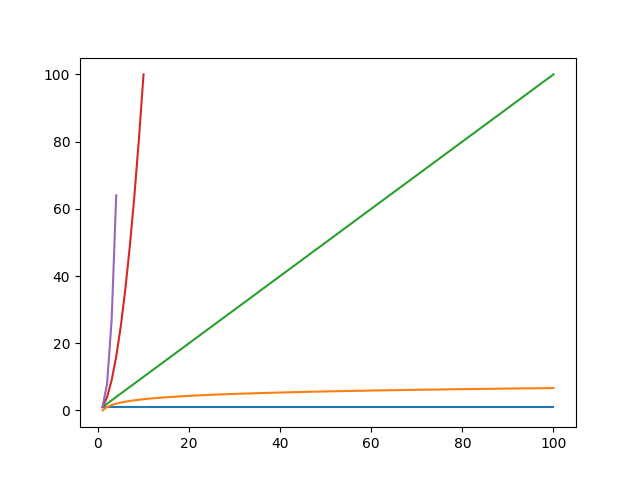
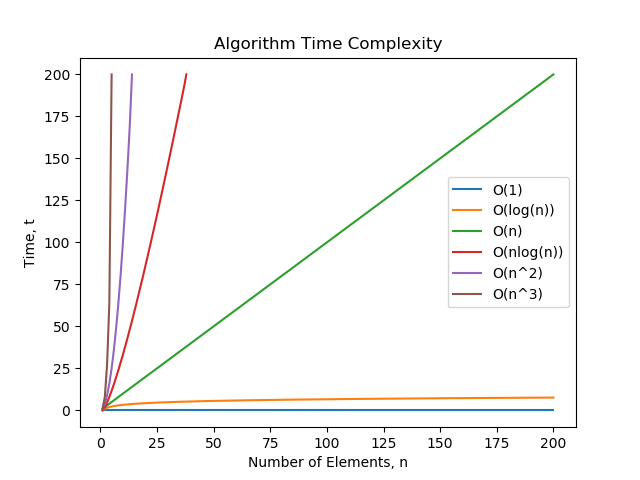
Updated the algorithmic complexity page.

diff --git a/layouts/shortcodes/img.html b/layouts/shortcodes/img.html
@@ -3,7 +3,8 @@
 {{- $.Page.Scratch.Add "figurecount" 1 -}}
 {{- $image := .Page.Resources.GetMatch (printf "*%s*" (.Get "src")) }}
 {{- $width_without_px := index (findRE "^[0-9]+" (.Get "width")) 0 -}}
-{{- $thumb := $image.Resize (printf "%s%s" $width_without_px "x") }}
+<!-- Make sure to specify Gaussian re-sampling, the default "Box" re-sampling looks horrible -->
+{{- $thumb := $image.Resize (printf "%s%s Gaussian" $width_without_px "x") }}
 <div class="box{{ with .Get "caption-position" }} fancy-figure caption-position-{{.}}{{end}}{{ with .Get "caption-effect" }} caption-effect-{{.}}{{end}}" {{ with $width_without_px }}style="max-width:{{.}}px;"{{end}}>
   <figure {{ with .Get "class" }}class="{{.}}"{{ end }} itemprop="associatedMedia" itemscope itemtype="http://schema.org/ImageObject">
     <div class="img"{{ if .Parent }} style="background-image: url('{{ print .Site.BaseURL $thumb }}');"{{ end }}{{ with .Get "size" }} data-size="{{.}}"{{ end }}>

diff --git a/.vscode/.ropeproject/config.py b/.vscode/.ropeproject/config.py
@@ -1,0 +1,114 @@
+# The default ``config.py``
+# flake8: noqa
+
+
+def set_prefs(prefs):
+    """This function is called before opening the project"""
+
+    # Specify which files and folders to ignore in the project.
+    # Changes to ignored resources are not added to the history and
+    # VCSs.  Also they are not returned in `Project.get_files()`.
+    # Note that ``?`` and ``*`` match all characters but slashes.
+    # '*.pyc': matches 'test.pyc' and 'pkg/test.pyc'
+    # 'mod*.pyc': matches 'test/mod1.pyc' but not 'mod/1.pyc'
+    # '.svn': matches 'pkg/.svn' and all of its children
+    # 'build/*.o': matches 'build/lib.o' but not 'build/sub/lib.o'
+    # 'build//*.o': matches 'build/lib.o' and 'build/sub/lib.o'
+    prefs['ignored_resources'] = ['*.pyc', '*~', '.ropeproject',
+                                  '.hg', '.svn', '_svn', '.git', '.tox']
+
+    # Specifies which files should be considered python files.  It is
+    # useful when you have scripts inside your project.  Only files
+    # ending with ``.py`` are considered to be python files by
+    # default.
+    # prefs['python_files'] = ['*.py']
+
+    # Custom source folders:  By default rope searches the project
+    # for finding source folders (folders that should be searched
+    # for finding modules).  You can add paths to that list.  Note
+    # that rope guesses project source folders correctly most of the
+    # time; use this if you have any problems.
+    # The folders should be relative to project root and use '/' for
+    # separating folders regardless of the platform rope is running on.
+    # 'src/my_source_folder' for instance.
+    # prefs.add('source_folders', 'src')
+
+    # You can extend python path for looking up modules
+    # prefs.add('python_path', '~/python/')
+
+    # Should rope save object information or not.
+    prefs['save_objectdb'] = True
+    prefs['compress_objectdb'] = False
+
+    # If `True`, rope analyzes each module when it is being saved.
+    prefs['automatic_soa'] = True
+    # The depth of calls to follow in static object analysis
+    prefs['soa_followed_calls'] = 0
+
+    # If `False` when running modules or unit tests "dynamic object
+    # analysis" is turned off.  This makes them much faster.
+    prefs['perform_doa'] = True
+
+    # Rope can check the validity of its object DB when running.
+    prefs['validate_objectdb'] = True
+
+    # How many undos to hold?
+    prefs['max_history_items'] = 32
+
+    # Shows whether to save history across sessions.
+    prefs['save_history'] = True
+    prefs['compress_history'] = False
+
+    # Set the number spaces used for indenting.  According to
+    # :PEP:`8`, it is best to use 4 spaces.  Since most of rope's
+    # unit-tests use 4 spaces it is more reliable, too.
+    prefs['indent_size'] = 4
+
+    # Builtin and c-extension modules that are allowed to be imported
+    # and inspected by rope.
+    prefs['extension_modules'] = []
+
+    # Add all standard c-extensions to extension_modules list.
+    prefs['import_dynload_stdmods'] = True
+
+    # If `True` modules with syntax errors are considered to be empty.
+    # The default value is `False`; When `False` syntax errors raise
+    # `rope.base.exceptions.ModuleSyntaxError` exception.
+    prefs['ignore_syntax_errors'] = False
+
+    # If `True`, rope ignores unresolvable imports.  Otherwise, they
+    # appear in the importing namespace.
+    prefs['ignore_bad_imports'] = False
+
+    # If `True`, rope will insert new module imports as
+    # `from <package> import <module>` by default.
+    prefs['prefer_module_from_imports'] = False
+
+    # If `True`, rope will transform a comma list of imports into
+    # multiple separate import statements when organizing
+    # imports.
+    prefs['split_imports'] = False
+
+    # If `True`, rope will remove all top-level import statements and
+    # reinsert them at the top of the module when making changes.
+    prefs['pull_imports_to_top'] = True
+
+    # If `True`, rope will sort imports alphabetically by module name instead
+    # of alphabetically by import statement, with from imports after normal
+    # imports.
+    prefs['sort_imports_alphabetically'] = False
+
+    # Location of implementation of
+    # rope.base.oi.type_hinting.interfaces.ITypeHintingFactory In general
+    # case, you don't have to change this value, unless you're an rope expert.
+    # Change this value to inject you own implementations of interfaces
+    # listed in module rope.base.oi.type_hinting.providers.interfaces
+    # For example, you can add you own providers for Django Models, or disable
+    # the search type-hinting in a class hierarchy, etc.
+    prefs['type_hinting_factory'] = (
+        'rope.base.oi.type_hinting.factory.default_type_hinting_factory')
+
+
+def project_opened(project):
+    """This function is called after opening the project"""
+    # Do whatever you like here!

diff --git a/content/programming/algorithms-and-data-structures/algorithm-time-complexity/main.py b/content/programming/algorithms-and-data-structures/algorithm-time-complexity/main.py
@@ -12,21 +12,25 @@ def main():
 
 def draw_non_weighted_graph():
 
-    y_clip = 100    
-    num_x = 100
+    y_clip = 200    
+    num_x = 200
     x = np.arange(1, num_x + 1)
 
     def constant(x):
-        return 1
+        return 0
     y_constant = _calc_y_vals(x, constant, y_clip)
 
     def log_n(x):
         return math.log2(x)
     y_logn = _calc_y_vals(x, log_n, y_clip)
 
-    def linear(x):
+    def n(x):
         return x
-    y_linear = _calc_y_vals(x, linear, y_clip)
+    y_n = _calc_y_vals(x, n, y_clip)
+
+    def nlogn(x):
+        return x*math.log2(x)
+    y_nlogn = _calc_y_vals(x, nlogn, y_clip)
 
     def n2(x):
         return x**2
@@ -36,7 +40,9 @@ def draw_non_weighted_graph():
         return x**3
     y_n3 = _calc_y_vals(x, n3, y_clip)
 
-
+    def twon(x):
+        return 3**x
+    y_2n = _calc_y_vals(x, twon, y_clip)
 
     print(f'x = {x}')
     print(f'y = {y_n2}')
@@ -44,10 +50,73 @@ def draw_non_weighted_graph():
     fig, ax = plt.subplots()
     ax.plot(x, y_constant, label='O(1)')
     ax.plot(x, y_logn, label='O(log(n))')
-    ax.plot(x, y_linear, label='O(n)')
+    ax.plot(x, y_n, label='O(n)')
+    ax.plot(x, y_nlogn, label='O(nlog(n))')
     ax.plot(x, y_n2, label='O(n^2)')
     ax.plot(x, y_n3, label='O(n^3)')
+
+    ax.set_title('Algorithm Time Complexity')
+    ax.set_xlabel('Number of Elements, n')
+    ax.set_ylabel('Time, t')
+    ax.legend()
+
     plt.savefig('big-o-notation-algorithm-complexity-non-weighted.png')
+
+    graph_data = [
+        {
+            'title': 'Constant Time Complexity',
+            'label': r'$\mathcal{O}(1)$',
+            'y_vals': y_constant,
+        },
+        {
+            'title': 'Logarithmic Time Complexity',
+            'label': r'$\mathcal{O}(log(n))$',
+            'y_vals': y_logn,
+        },
+        {
+            'title': 'Linear Time Complexity',
+            'label': r'$\mathcal{O}(n)$',
+            'y_vals': y_n,
+        },
+        {
+            'title': 'nlog(n) Time Complexity',
+            'label': r'$\mathcal{O}(n\log{}n)$',
+            'y_vals': y_nlogn,
+        },
+        {
+            'title': 'n^2 Time Complexity',
+            'label': r'$\mathcal{O}(n^2)$',
+            'y_vals': y_n2,
+        },
+        {
+            'title': 'n^3 Time Complexity',
+            'label': r'$\mathcal{O}(n^3)$',
+            'y_vals': y_n3,
+        },
+        {
+            'title': '2^n Time Complexity',
+            'label': r'$\mathcal{O}(2n)$',
+            'y_vals': y_2n,
+        },
+    ]
+
+    for graph in graph_data:
+    
+        fig, ax = plt.subplots()
+
+        for graph_2 in graph_data:
+            if graph == graph_2:
+                color = 'tab:orange' # default matplotlib color
+            else:
+                color = '#777777' # grey 
+            ax.plot(x, graph_2['y_vals'], label=graph_2['label'], color=color)
+
+        ax.set_title(graph['title'])
+        ax.set_xlabel('Number of Elements, n')
+        ax.set_ylabel('Time, t')
+        ax.legend()
+
+        plt.savefig(f"graph-{_sanitize_filename(graph['title'])}.png")
 
 def _calc_y_vals(x_array, fx_func, y_clip):
     y_array = np.full((len(x_array)), np.nan)
@@ -55,11 +124,16 @@ def _calc_y_vals(x_array, fx_func, y_clip):
         print(x)
         y_val = fx_func(x)
         if y_val > y_clip:
+            y_array[i - 1] = y_clip
             break
         y_array[i] = y_val
 
     return y_array
 
+def _sanitize_filename(filename):
+    filename = filename.replace(' ', '-')
+    filename = filename.lower()
+    return "".join([c for c in filename if c.isalpha() or c.isdigit() or c=='-']).rstrip()
 
 def draw_weighted_graph():
 
@@ -88,7 +162,7 @@ def draw_weighted_graph():
     ax.plot(x, y_2n, label='O(2^n)')
     ax.plot(x, y_nfact, label='O(n!)')
 
-    ax.set_title('Algorithm Time Complexity')
+    ax.set_title('Algorithm Time Complexity (weighted)')
     ax.set_xlabel('Number of Elements, n')
     ax.set_ylabel('Time, t')
     ax.legend()

diff --git a/content/electronics/components/power-regulators/_index.md b/content/electronics/components/power-regulators/_index.md
@@ -4,7 +4,6 @@ date: 2012-08-20 07:20:46+00:00
 draft: false
 title: Power Regulators
 type: page
-url: /electronics/components/power-regulators
 ---
 
 ## Overview

diff --git a/content/electronics/components/fpgas/_index.md b/content/electronics/components/fpgas/_index.md
@@ -4,7 +4,6 @@ date: 2015-07-15 21:55:37+00:00
 draft: false
 title: FPGAs
 type: page
-url: /electronics/components/fpgas
 ---
 
 ## Complexity
